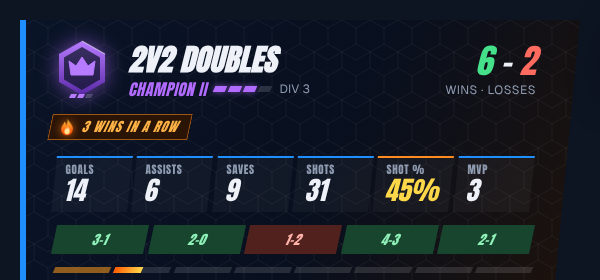
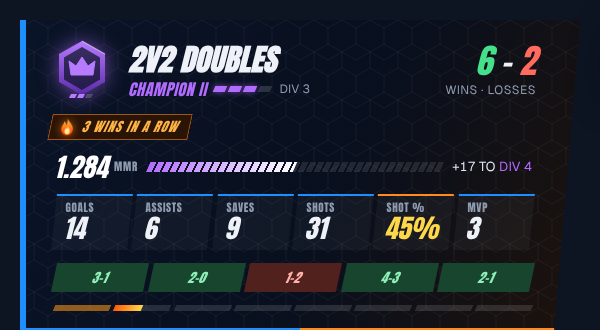
README: MMR and progress to the next division

diff --git a/README.md b/README.md
@@ -10,11 +10,12 @@ Show your **Rocket League** stats in your OBS stream: the live score and your nu
 > **In development.** The layouts below are the design. The server, the editor and the setup are being built, so there is nothing to install yet.
 
 <p align="center">
-  <img src="docs/screenshots/layout-card.png" alt="Session card for 2v2 Doubles: rank Champion II Division 3, 6 wins and 2 losses, a three-win streak, goals, assists, saves, shots, shot percentage, MVPs and the last five results" width="600">
+  <img src="docs/screenshots/layout-card.png" alt="Session card for 2v2 Doubles: rank Champion II Division 3, 1,284 MMR with 17 points to Division 4, 6 wins and 2 losses, a three-win streak, goals, assists, saves, shots, shot percentage, MVPs and the last five results" width="600">
 </p>
 
 - Three layouts: a **Live bar** during the match, a **Session card** and a **Statfeed** pop-up
 - The session card switches through your ranked playlists (Duel, Doubles, Standard, Heatseeker, Hoops, Rumble, Snow Day, Dropshot). You pick which ones and how long each one stays
+- Your MMR per playlist with a bar that shows how many points are left to the next division or rank
 - Win and loss streaks, totals and your last five results per playlist, counted from the start of your stream
 - Rank symbols in the Watchr style, or your own images if you prefer
 - An editor in your browser with a live preview, protected by a login, and a **Statistics** page with your matches, saved on your server
@@ -40,7 +41,7 @@ Rocket League has an official Stats API that sends match data from the game to y
 - **Per match:** score, clock, overtime, arena and winner
 - **Events:** goals, stat events such as saves and demos, and the end of the match
 
-The API does not include your **rank or MMR**. You set your rank per playlist in the editor. Boost and speed are only sent while spectating, not for your own car.
+The API does not include your **rank or MMR**. You set rank and MMR per playlist in the editor, and RocketWatchr estimates the change after every match. Boost and speed are only sent while spectating, not for your own car.
 
 ## License
 
